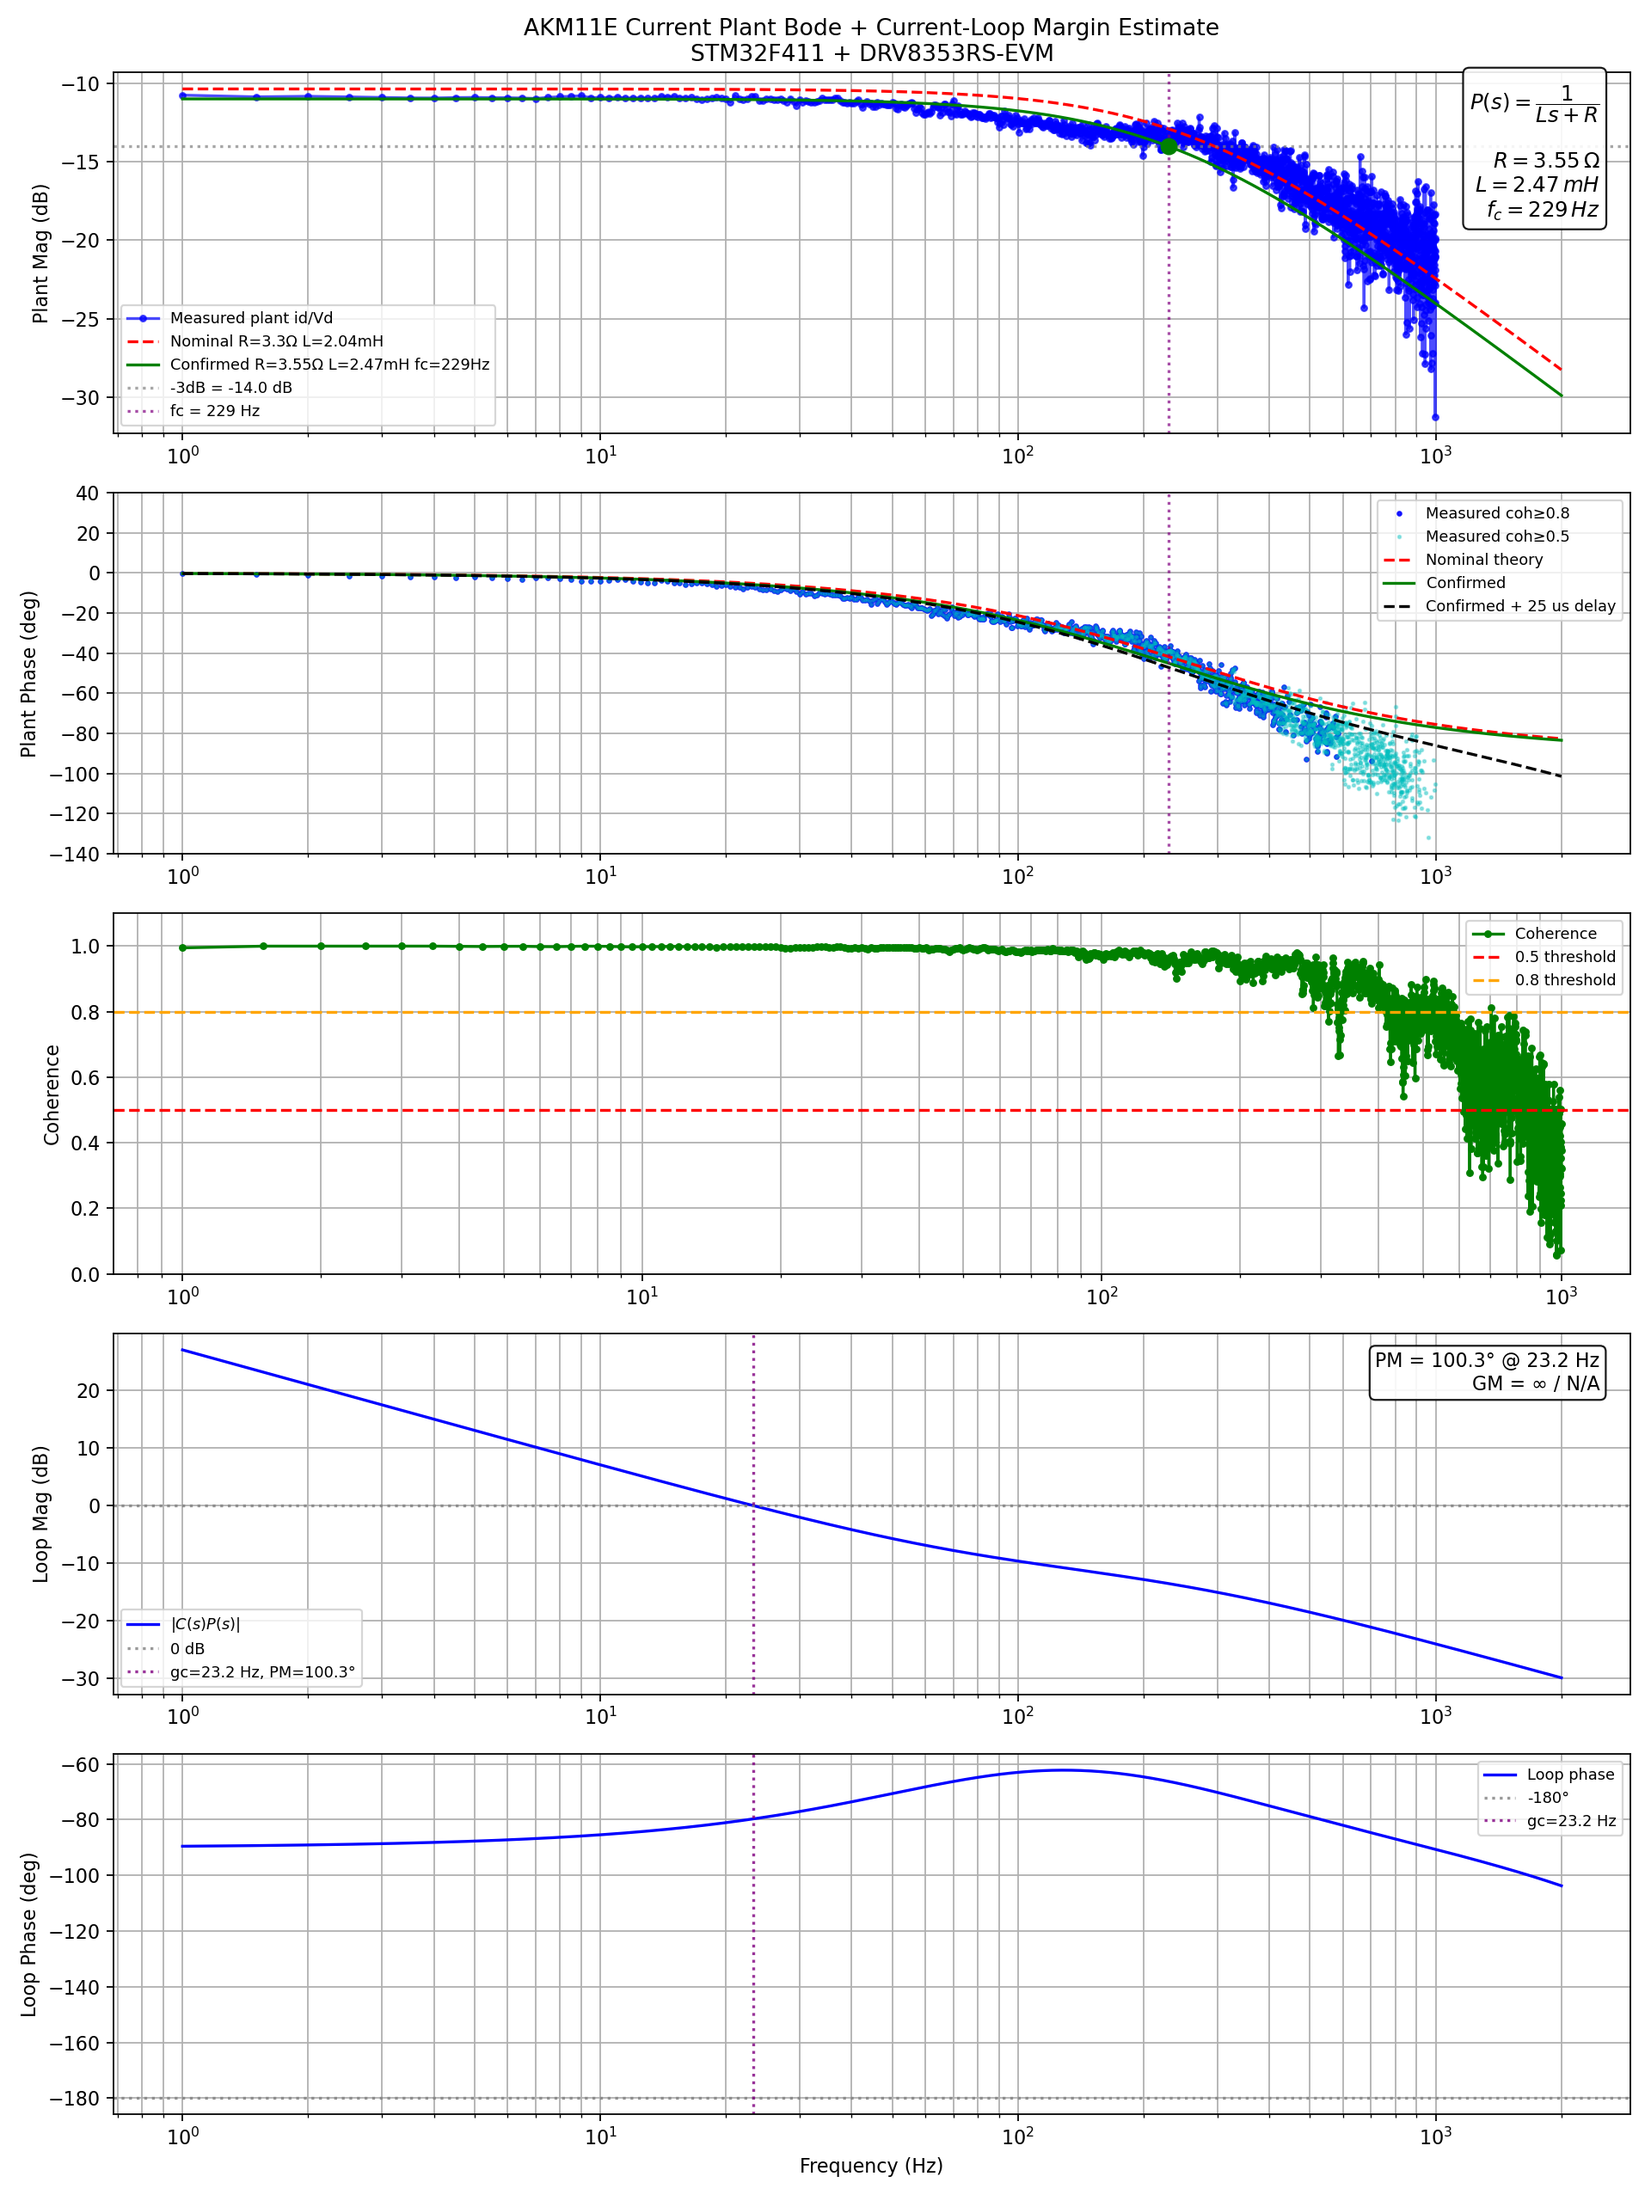
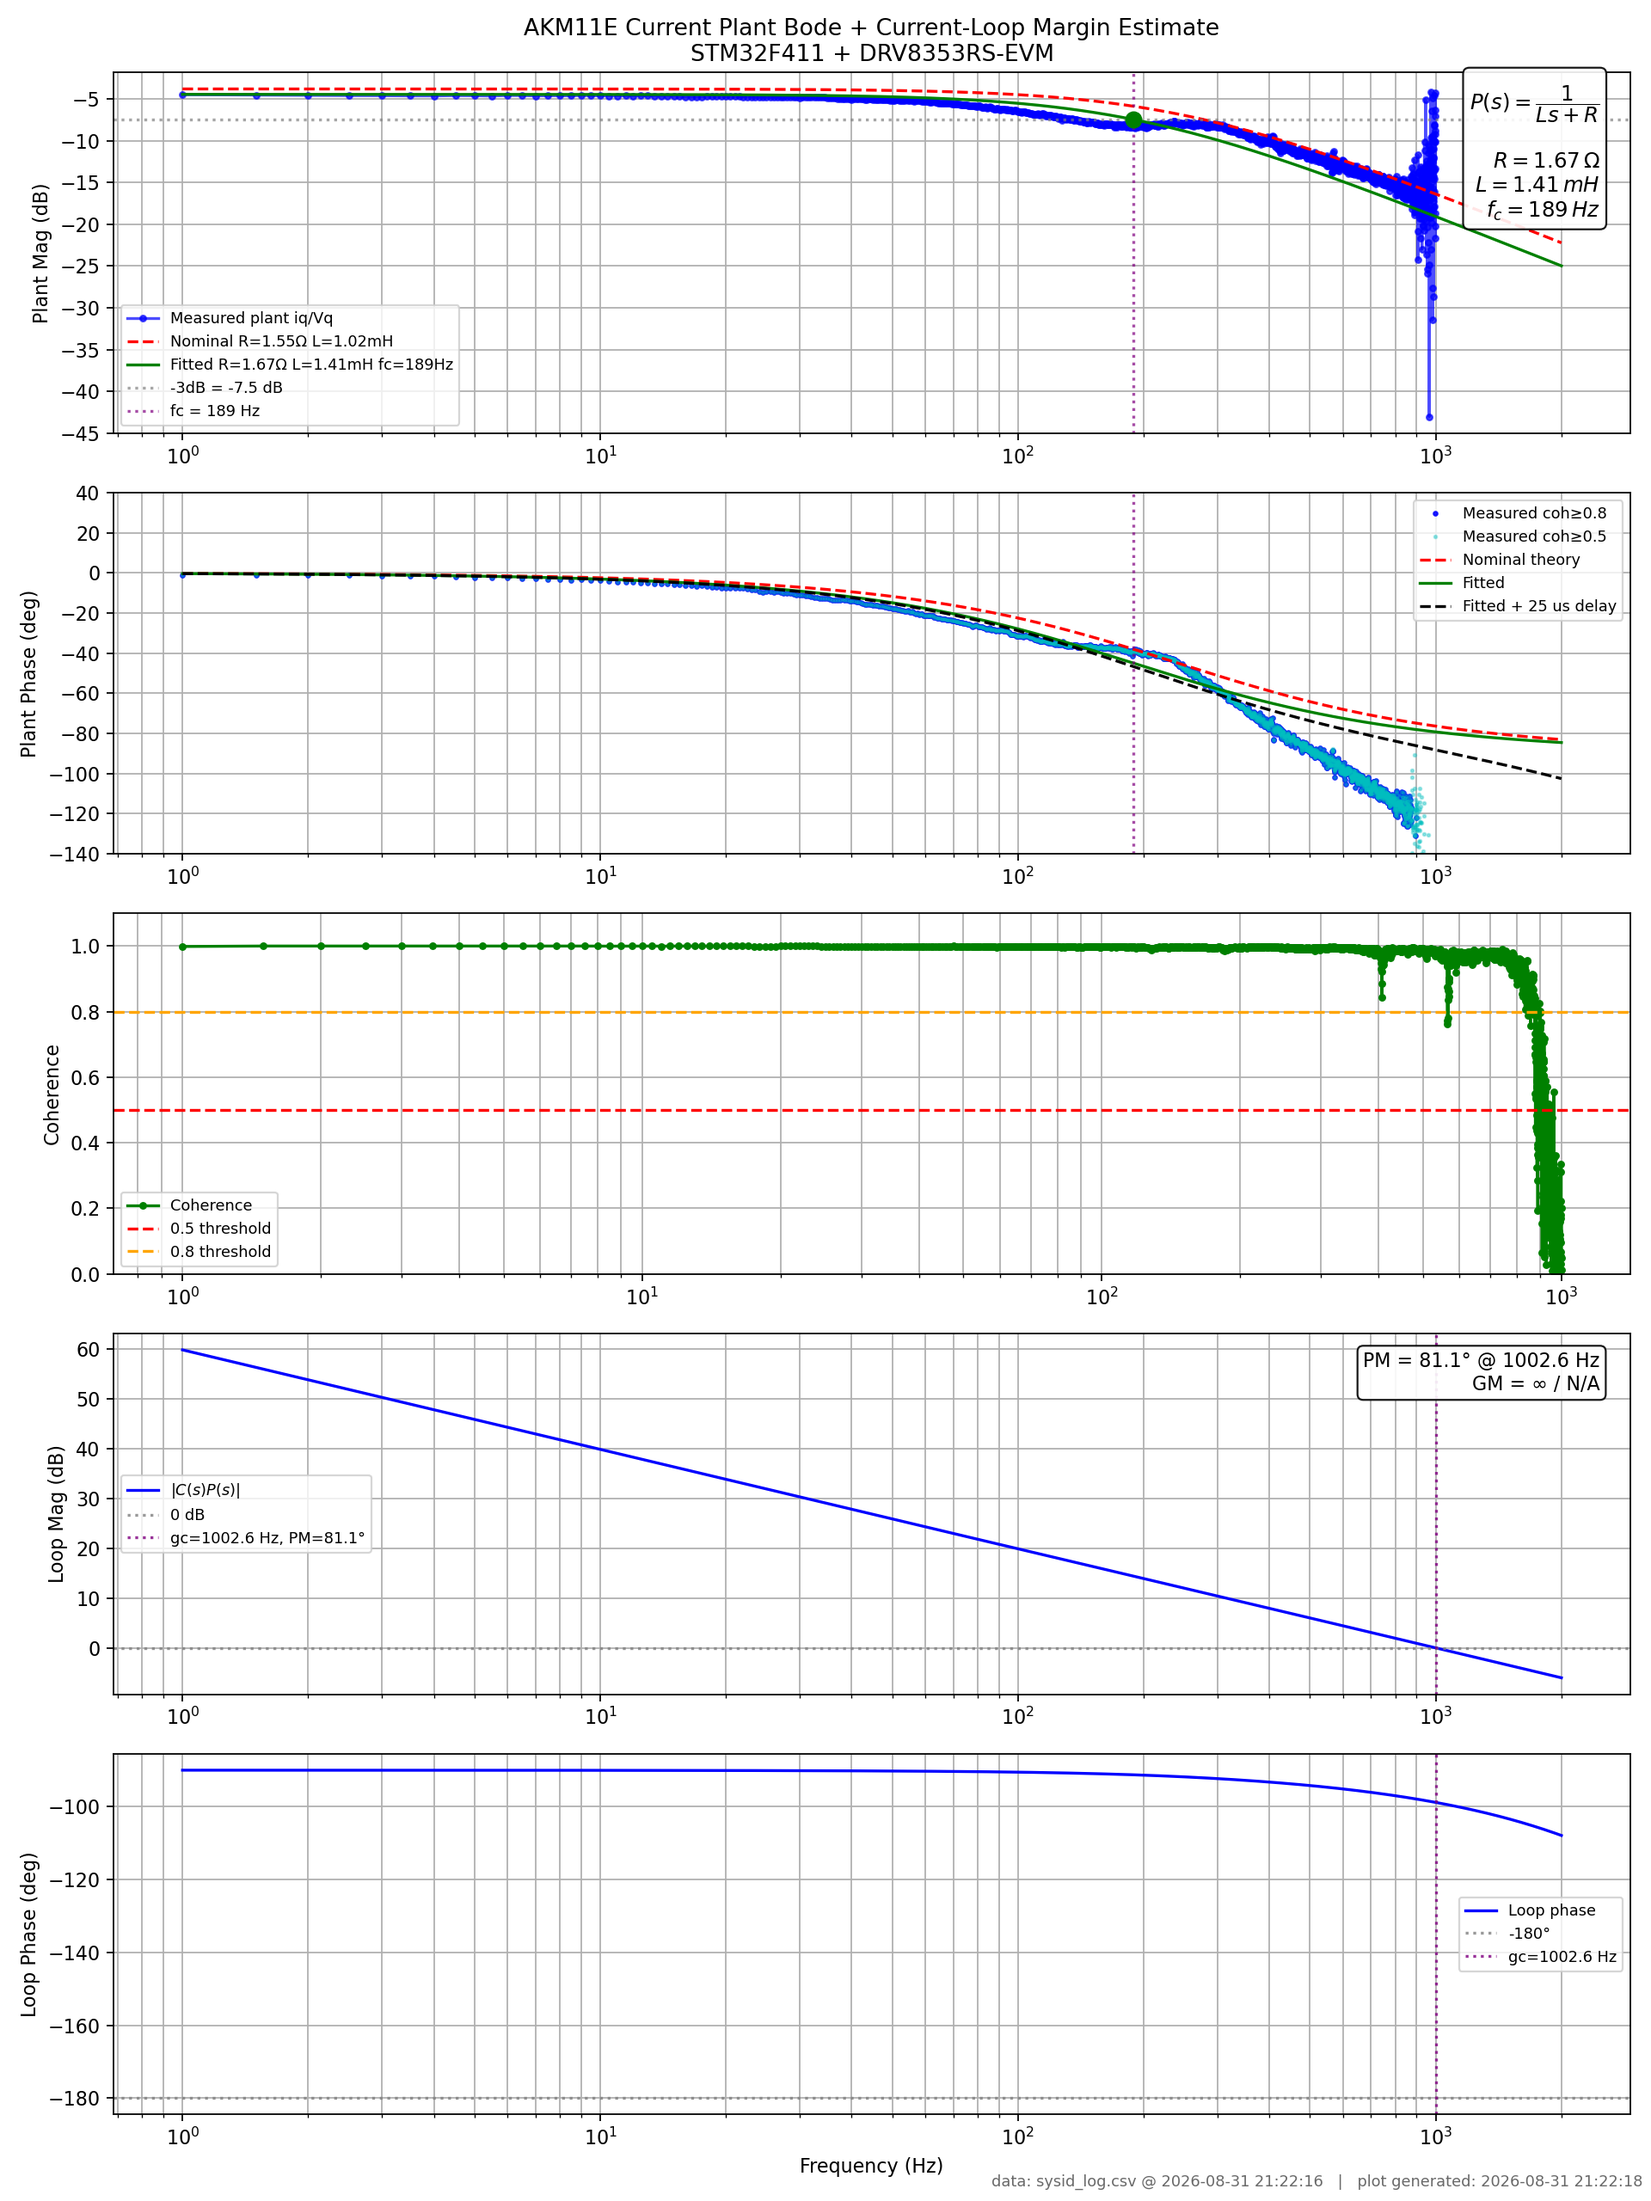
Update README for stage-attached re-IDs and the velocity-loop resonance finding
Current loop: re-identified (R=1.67ohm, L=1.41mH, fc=189Hz), BW retarget
500->1000Hz noted (PM=81.1deg @ gc=1002.6Hz measured).

Velocity loop: re-identified with the stage attached (K=1623.5 rad/s/A,
tau=123.67ms, replacing the bare-motor fit). Closed-loop chirp surfaced a
real two-inertia resonance at 65-90Hz; a 4-point amplitude sweep
(0.35/0.5/0.75/0.9A) showed its frequency and Q move non-monotonically with
excitation, ruling out a fixed notch filter as a reliable fix.

Position loop: documented backing off from the resonance-adjacent
phase-margin-targeted design (~41-43Hz crossover, 3.2-3.7dB GM) to a
conservative Kp_pos=200, verified against the whole closed system (21.5Hz
BW, 82.8deg PM, 18.6dB GM) and an actual position step move.

Refreshed docs/ plots to match (bode_plot, velocity_bode_plot,
closed_vel_bode_plot, closed_pos_bode_plot, position_step_plot).

diff --git a/README.md b/README.md
@@ -4,13 +4,15 @@ Raspberry Pi data capture and frequency-domain analysis for a bare-metal STM32 F
 
 Companion firmware: [stm32-servo-drive](https://github.com/jnzim/stm32-servo-drive)
 
-**Status: full cascade closed and measured — current, velocity, and position.** Every
-loop gain here was derived from real chirp/step-response system identification on actual
-hardware, not a datasheet guess or an unverified rule of thumb. The position loop in
-particular was designed from a phase-margin *target* (not the usual conservative "cross
-over a decade below" heuristic) and then independently verified by chirping the entire
-closed system and reconstructing the open-loop response straight from the measured data —
-see [Position loop](#position-loop-closed-system) below.
+**Status: full cascade closed and measured — current, velocity, and position — on a real
+stage** (previously bare motor; the stage is now attached and every loop below was
+re-identified against it). Every loop gain here was derived from real chirp/step-response
+system identification on actual hardware, not a datasheet guess or an unverified rule of
+thumb. The position loop was originally sized from a phase-margin *target* built off the
+closed velocity loop's measured phase — but that target kept landing right against a real
+mechanical resonance the velocity-loop chirp surfaced once the stage was attached, so it
+was deliberately backed off instead; see [Velocity loop](#velocity-loop--re-identified-with-stage-attached-resonance-found)
+and [Position loop](#position-loop-closed-system) below.
 
 ![Closed Position Loop Bode](docs/closed_pos_bode_plot.png)
 
@@ -36,54 +38,97 @@ see [Position loop](#position-loop-closed-system) below.
 
 | Parameter | Measured | Datasheet (line-to-line) | Method |
 |-----------|----------|--------------------------|--------|
-| R | 3.55 Ω | 3.10 Ω | Bode DC magnitude |
-| L | 2.47 mH | 2.04 mH | Bode -3 dB, `fc = 229 Hz` |
-| fc | 229 Hz | 241 Hz | Bode -3 dB from flat response |
+| R | 1.67 Ω | 3.10 Ω | Bode DC magnitude |
+| L | 1.41 mH | 2.04 mH | Bode -3 dB, `fc = 189 Hz` |
+| fc | 189 Hz | 241 Hz | Bode -3 dB from flat response |
 
-> Measured R and L are slightly higher than the datasheet values, consistent with additional series resistance and inductance from the long motor cable used in the test setup.
+> Re-identified this session with a fresh chirp; used to re-target the current-loop PI
+> design from 500Hz to 1000Hz BW (real margin to spare at 500Hz — PM was landing at
+> 85-88°). At the new design, measured loop margin is **PM = 81.1° @ gc = 1002.6 Hz**,
+> GM effectively infinite (phase never approaches -180° in the swept range) — a full
+> decade below the 20 kHz control loop's 10 kHz Nyquist limit.
 
 The current-loop PI gains were calculated from this measured first-order RL plant and
-implemented on the STM32 at 20 kHz, including a d-axis PI added later to cancel a real
+implemented on the STM32 at 20 kHz, including a d-axis PI added earlier to cancel a real
 cross-coupling bias (`i_d = ω_e·L_q·i_q/R`) that otherwise grew with speed.
 
 ![Closed-Loop Current Step Response](docs/step_response.png)
 
-## Velocity loop — closed, 82.5 Hz bandwidth
+## Velocity loop — re-identified with stage attached, resonance found
 
-The velocity loop closes around the current loop above and was retuned after its initial
-gains turned out to be ~3.4x smaller than the sysid-calculated design called for — measured
-closed-loop bandwidth went from 7.5 Hz to 82.5 Hz after the fix.
+The velocity loop closes around the current loop above. With the stage now attached, the
+mechanical plant changed substantially from the bare-motor fit this replaces (a much
+heavier, more damped load): `K = 1623.5 rad/s/A`, `τ = 123.67 ms`, vs. the old bare-motor
+numbers (`K ≈ 238-248 rad/s/A`, `τ ≈ 13 ms`). PI gains were re-derived by the same
+zero-cancellation method, 50Hz BW target.
+
+![Velocity Plant Bode](docs/velocity_bode_plot.png)
+
+Chirping the **closed** velocity loop (`vel_meas/vel_cmd`) surfaced a real resonance that
+wasn't visible on the bare motor: a dip-then-peak shape (anti-resonance ~15-30Hz, resonance
+~65-90Hz) — the classic signature of a two-inertia system, motor and load coupled through
+the screw/coupling's compliance. An amplitude sweep of the open-loop plant chirp
+(`VEL_CHIRP_AMPLITUDE` = 0.35 / 0.5 / 0.75 / 0.9 A) showed that resonance's frequency and
+damping **both move non-monotonically with excitation amplitude** — a fixed linear mode
+wouldn't do that. Most likely explanation: backlash in the coupling modulating effective
+stiffness under load, not yet confirmed or fixed mechanically.
+
+| Amplitude | Phase crossover (pc) | Gain margin | Auto-designed `Kp_pos` (60° PM target) |
+|-----------|----------------------|-------------|------------------------------------------|
+| 0.35 A | 85.15 Hz | 3.2 dB | 638.9 |
+| 0.5 A  | 78.87 Hz | 3.4 dB | 481.4 |
+| 0.75 A | 85.80 Hz | 3.4 dB | 645.3 |
+| 0.9 A  | 82.70 Hz | 3.7 dB | 559.0 |
+
+Every one of those is a thin margin sitting right against the resonance, and the resonance
+itself won't hold still — a fixed notch filter tuned to any one of these would be wrong for
+the others. This is what drove the position-loop decision below.
 
 ![Closed Velocity Loop Bode](docs/closed_vel_bode_plot.png)
-![Velocity Step Response](docs/velocity_step_plot.png)
 
 A real order-6 electrical (order-18 mechanical) velocity ripple was also characterized
-during this work — confirmed repeatable and independent of PWM dead-time, best explained
-by cogging torque (motor is 9-slot/6-pole, LCM=18 matches), but not independently
-root-caused (a zero-current coast test to isolate it was tried and abandoned — too much
-bench friction to coast usefully).
+during earlier bare-motor work — confirmed repeatable and independent of PWM dead-time,
+best explained by cogging torque (motor is 9-slot/6-pole, LCM=18 matches), but not
+independently root-caused (a zero-current coast test to isolate it was tried and abandoned
+— too much bench friction to coast usefully). The resonance above is a separate, later
+finding; the two haven't been connected yet, though both point at unmodeled
+mechanical/friction behavior worth revisiting together.
 
 ![Ripple Debug](docs/ripple_debug_plot.png)
 
 ## Position loop — closed system
 
-Rather than use the standard conservative heuristic (cross the outer loop over a decade
-below the inner loop's bandwidth, which gets you *something* stable but never tells you
-your actual margin), the position P gain was designed by measuring the closed velocity
-loop's real phase lag and targeting a specific phase margin directly:
-`Kp_pos = 157.7`, targeting 60° PM from a 30° phase-lag crossover point.
+The position P gain was originally designed by measuring the closed velocity loop's real
+phase lag and targeting a specific phase margin directly (crossover picked where measured
+phase lag = 30°, targeting 60° PM) — see the table above. That approach kept landing gc
+around 41-43Hz across every amplitude tested, right against the resonance found above with
+only 3.2-3.7 dB of gain margin.
 
-That design was then checked against reality, not just trusted: `SYSID_TEST_CL_POS_CHIRP`
-chirps `pos_cmd` through the **entire closed cascade** (position P → velocity PI → current
-PI) and measures the actual whole-system closed-loop response `H_pos(s) = pos_meas/pos_cmd`
+Rather than trust a precise design against a target that's been measured to move, or add a
+notch filter tuned to a resonance that hasn't held still across four tests, the gain was
+deliberately backed off instead: `Kp_pos = 200` (down from the phase-margin-targeted
+design), landing crossover around 15-20Hz — comfortably clear of the resonance band
+regardless of which amplitude it's currently sitting at.
+
+That was then checked against reality, not just trusted: `SYSID_TEST_CL_POS_CHIRP` chirps
+`pos_cmd` through the **entire closed cascade** (position P → velocity PI → current PI) and
+measures the actual whole-system closed-loop response `H_pos(s) = pos_meas/pos_cmd`
 directly — no `H(s)/s` construction, no assumptions. The open-loop response is then
 reconstructed straight from that measurement (`L = H/(1-H)`, valid for unity feedback) to
 pull out gain/phase margin without ever needing to physically break the loop.
 
-**Measured result: 42.0 Hz closed-loop bandwidth, gain crossover 28.9 Hz, 68.8° phase
-margin, 13.5 dB gain margin** — healthier margins than the 60° PM originally targeted.
+**Measured result: 21.5 Hz closed-loop bandwidth, gain crossover 20.17 Hz, 82.8° phase
+margin, 18.6 dB gain margin** — and the reconstructed open-loop magnitude rolls off
+smoothly straight through the 65-90Hz resonance band with no bump at all at this crossover.
+Confirmed with an actual position step move as well (`SYSID_TEST_POSITION_STEP`): clean
+ramp-limited tracking, no overshoot, no ringing.
 
 ![Position Step Response](docs/position_step_plot.png)
+
+Velocity feedforward (not yet implemented) is the planned way to recover tracking
+performance without spending this margin back. A notch filter is deliberately not on the
+table yet — see [Velocity loop](#velocity-loop--re-identified-with-stage-attached-resonance-found)
+for why a fixed notch is a bad bet on a resonance that's already been observed to move.
 
 A slow "cine sweep" variant of the same closed-loop chirp (`SYSID_TEST_CINE_SWEEP`, 3–80 Hz
 instead of the analysis sweep range) exists specifically for filming — visible motion
@@ -101,6 +146,7 @@ limit so you can watch it track cleanly and then visibly fall behind.
 - 8192-count RS-422 encoder
 - SPI0 at 4 MHz with telemetry capture at ~10 kHz
 - GPIO3 to STM32 PC3 active-low trigger
+- Precision ball-screw stage (newly attached — previous results above were bare-motor)
 
 ## Build
 
@@ -142,14 +188,22 @@ Copy any new result images into `docs/` before committing so the README stays cu
 
 ## Roadmap
 
-- [x] Current-loop plant sysid — R, L, and fc confirmed
+- [x] Current-loop plant sysid — R, L, and fc confirmed; BW target re-tuned 500→1000Hz
 - [x] Current-loop PI closure, including d-axis cross-coupling fix
-- [x] Velocity-loop plant sysid and closure — 82.5 Hz measured bandwidth
-- [x] Position-loop closure — phase-margin-targeted design, verified against the measured
-      whole-system closed loop (42 Hz BW, 68.8° PM, 13.5 dB GM)
-- [x] Auto-selecting analysis workflow, re-arm loop between tests
-- [ ] Independently confirm the velocity ripple's root cause (cogging torque suspected,
-      not proven — coast test attempt abandoned due to bench friction)
-- [ ] Connect a real stage and re-run full sysid against that plant (gains above are
+- [x] Connect a real stage and re-run full sysid against that plant (previous gains were
       bare-motor only)
+- [x] Velocity-loop plant sysid and closure, re-identified with the stage attached
+- [x] Mechanical resonance (65-90Hz, two-inertia signature) found via closed-velocity-loop
+      chirp; confirmed amplitude-dependent (likely backlash) via a 4-point amplitude sweep
+- [x] Position-loop closure — backed off from the resonance-adjacent phase-margin-targeted
+      design to a conservative `Kp_pos=200`, verified against the measured whole-system
+      closed loop (21.5 Hz BW, 82.8° PM, 18.6 dB GM) and an actual position step move
+- [x] Auto-selecting analysis workflow, re-arm loop between tests
+- [ ] Check the stage coupling for backlash (suspected root cause of the amplitude-dependent
+      resonance)
+- [ ] Velocity feedforward, to recover tracking performance without spending the position
+      loop's margin back
+- [ ] Independently confirm the velocity ripple's root cause (cogging torque suspected,
+      not proven — coast test attempt abandoned due to bench friction); possibly related to
+      the resonance above, not yet connected
 - [ ] Trapezoidal trajectory-streaming motion controller on top of the validated cascade
